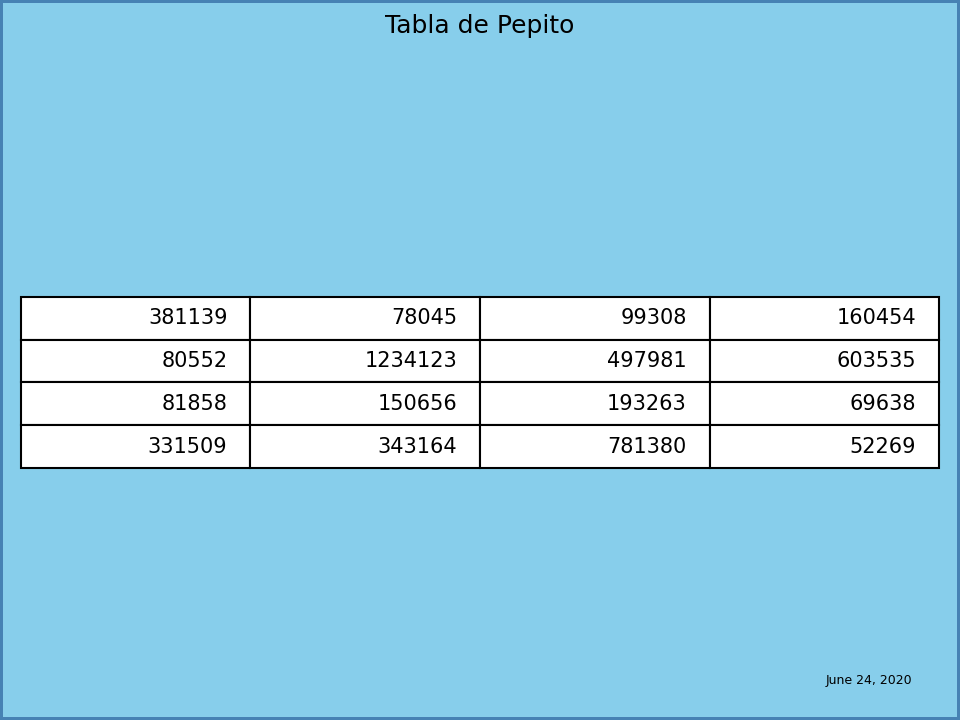
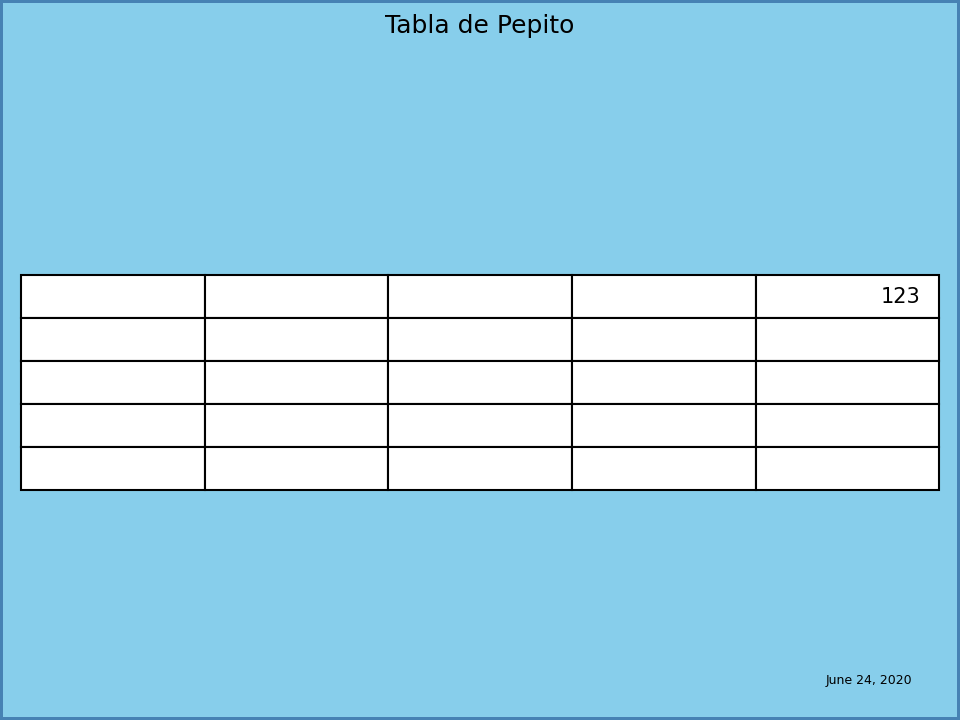
status 7 llllisto

Changed region(s): [[0.0, 0.3667, 1.0, 0.7028]]

diff --git a/status7.py b/status7.py
@@ -1,26 +1,44 @@
 import numpy as np
 import matplotlib.pyplot as plt
 
-#table info
-title_text = 'Tabla de Pepito'
-footer_text = 'June 24, 2020'
-fig_background_color = 'skyblue'
-fig_border = 'steelblue'
 
-var = 'soy una variable'
-var2 = 1234123
+
+#table info
+title_text = 'Status 7'
+footer_text = ''
+fig_background_color = 'white'
+fig_border = 'black'
+
+#table config
+text_size = 15
 
 #La tabla SIEMPRE elimina la primera fila y columna de data (los 'headers')
 #el resto se dibuja sin problemas
 #debe ser una matriz. Los datos "vacios" deben ser strings vacios
 
+var_fecha = 'dd mm aa'
+var_info_text = 'favor generar boleta (esto es un texto de prueba)'
+
+var_nro_aviso = '3'
+var_fecha_rechazo_factura = 'dd mm aa'
+
+var_nombre_proveedor = 'Fabrica Chocolate'
+var_monto_factura = 999999
+var_monto_oc = 9999999
+var_folio_factura = 99999
+var_nro_oc = '010101'
+var_fecha_factura = 'dd mm aa'
+var_fecha_oc = 'dd mm aa'
+
+
+
 data =  [
-            ['nill','','','','',''], #nill
-            ['nill','','','','','123'], #1
-            ['nill','','','','',''], #2
-            ['nill','','','','',''], #3
-            ['nill','','','','',''], #4
-            ['nill','','','','',''], #5
+            ['nill','1','2','3'], #nill esta fila no se ve (da el formato)
+            ['nill','Nombre Proveedor',var_nombre_proveedor,'',''],
+            ['nill','Monto Factura',var_monto_factura,'Monto OC',var_monto_oc],
+            ['nill','Folio Factura',var_folio_factura,'N° OC',var_nro_oc],
+            ['nill','Fecha Factura',var_fecha_factura,'Fecha OC',var_fecha_oc],
+
         ]
 # Pop the headers from the data array
 column_headers = data.pop(0)
@@ -36,7 +54,7 @@ rcolors = plt.cm.BuPu(np.full(len(row_headers), 0.1))
 ccolors = plt.cm.BuPu(np.full(len(column_headers), 0.1))
 
 # Create the figure.
-plt.figure(linewidth=2,
+plt.figure(linewidth=1,
            edgecolor=fig_border,
            facecolor=fig_background_color,
            tight_layout={'pad':1},
@@ -54,7 +72,7 @@ the_table = plt.table(
 
 # Scaling is the only influence we have over top and bottom cell padding.
 # Make the rows taller (i.e., make cell y scale larger).
-the_table.scale(1, 1.5)
+the_table.scale(1, 1.15)
 # Hide axes
 ax = plt.gca()
 ax.get_xaxis().set_visible(False)
@@ -64,13 +82,24 @@ plt.box(on=None)
 # Add title
 plt.suptitle(title_text)
 # Add footer
-plt.figtext(0.95, 0.05, footer_text, horizontalalignment='right', size=6, weight='light')
+#plt.figtext(0.95, 0.05, footer_text, horizontalalignment='right', size=text_size, weight='light')
+
+#plt.figtext(.5,.95,'\nFoo Bar\n', fontsize=18, ha='center')
+
+plt.figtext(.1,.8,'Confirmacion Factura con OC/OS\n' + var_info_text,fontsize=10,ha='left')
+
+plt.figtext(.1,.75,'Fecha: ' + var_fecha,fontsize=10,ha='left')
+
+plt.figtext(.1,.7,'Aviso N°: ' + var_nro_aviso,fontsize=10,ha='left')
+
+plt.figtext(.1,.65,'Fecha de Rechazo de Factura: ' + var_fecha_rechazo_factura,fontsize=10,ha='left')
+
 # Force the figure to update, so backends center objects correctly within the figure.
 # Without plt.draw() here, the title will center on the axes and not the figure.
 plt.draw()
 # Create image. plt.savefig ignores figure edge and face colors, so map them.
 fig = plt.gcf()
-plt.savefig('pyplot-table-demo.png',
+plt.savefig('status7.png',
             #bbox='tight',
             edgecolor=fig.get_edgecolor(),
             facecolor=fig.get_facecolor(),
